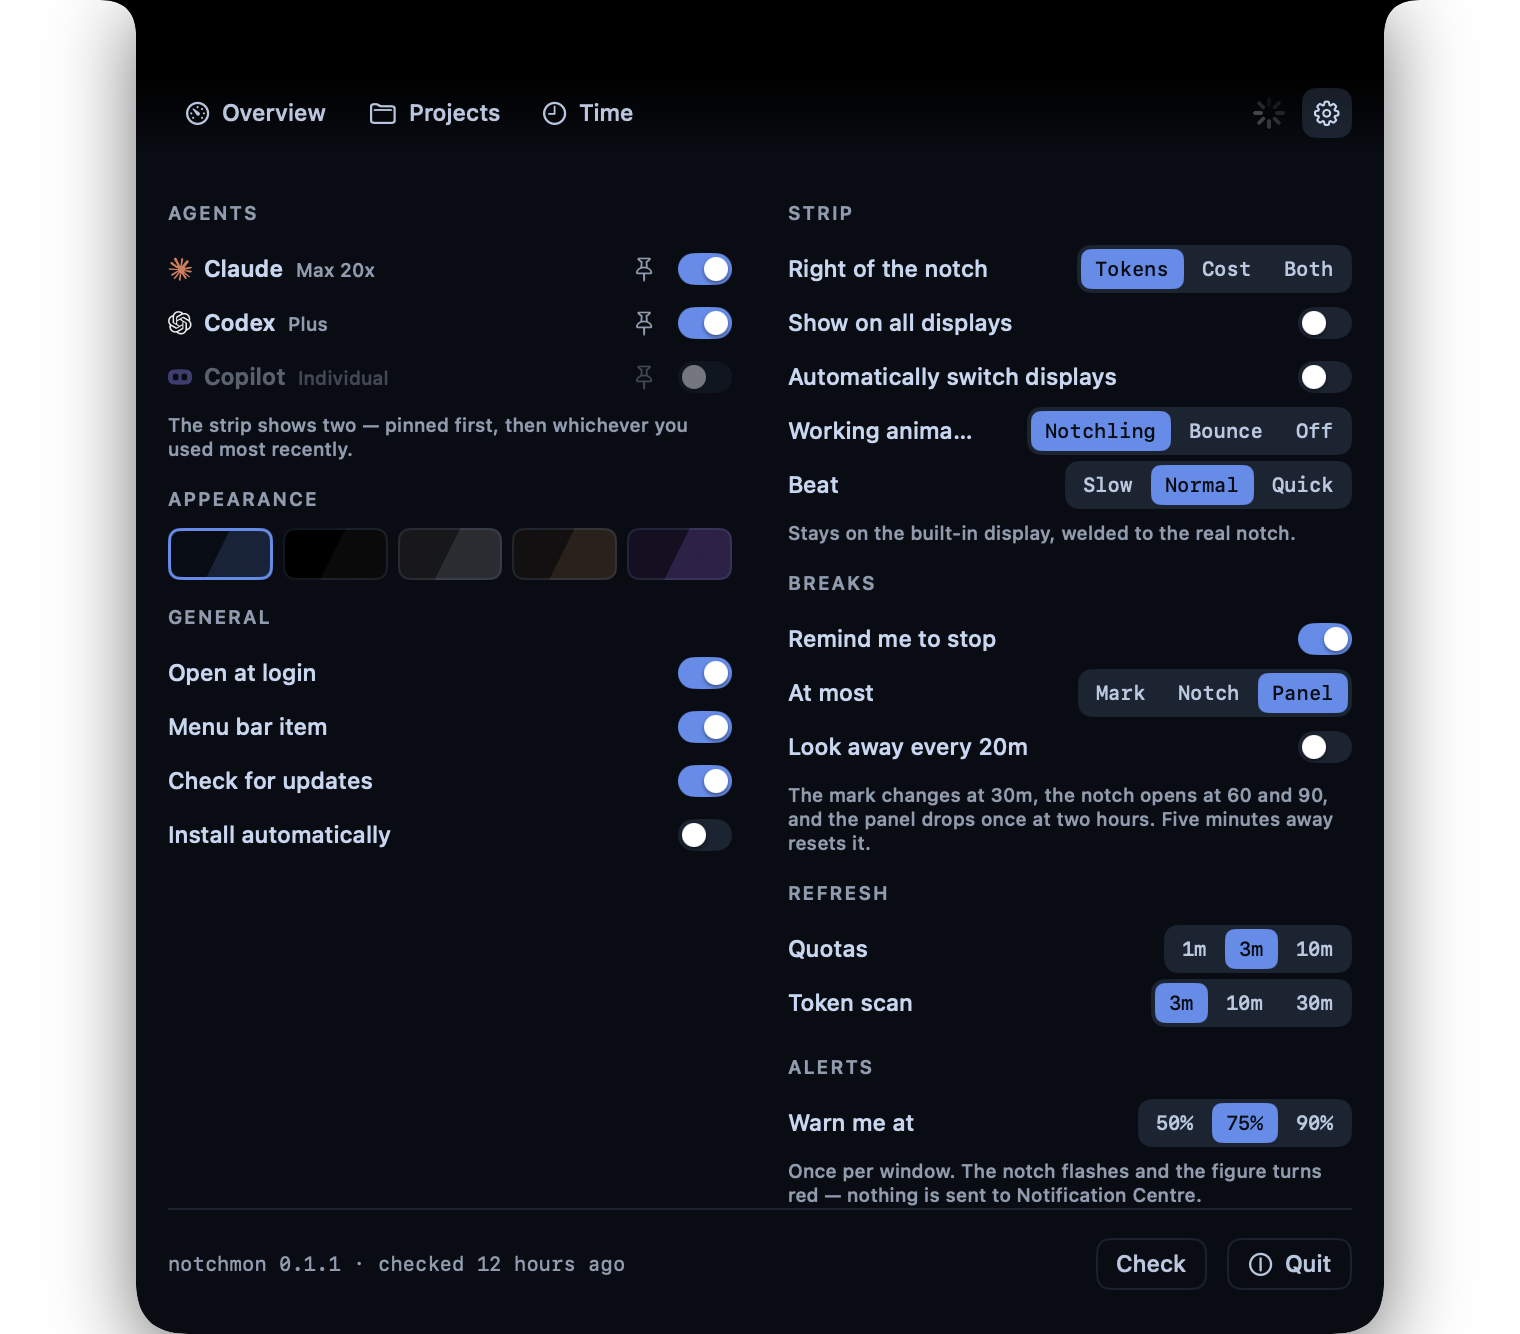
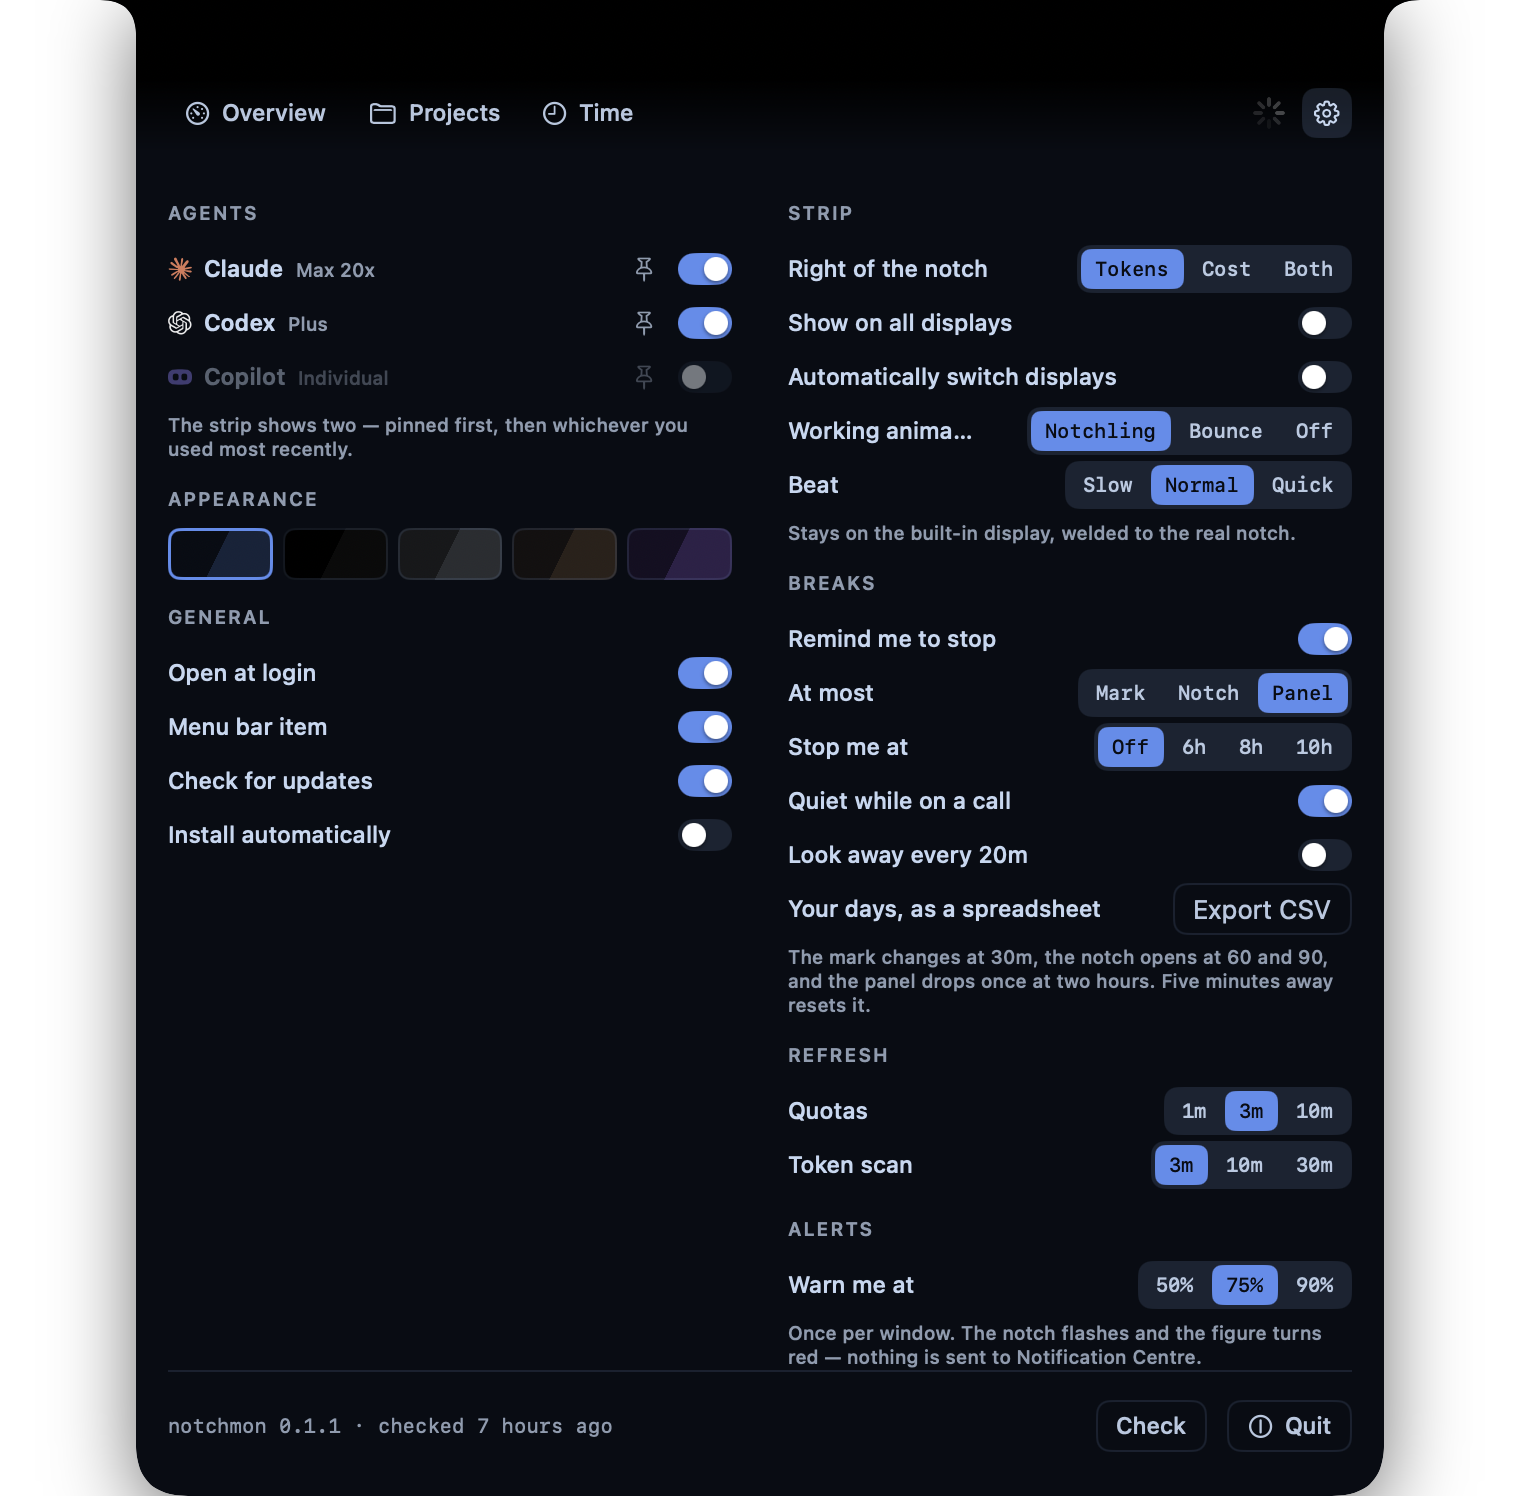
README: the seven things that landed
Hours by project and what they cost, the weekday grid, the CSVs, the
block summary, the day figure, and standing down during a call. The
Settings shot was retaken again — it has five rows in Breaks now.

diff --git a/README.md b/README.md
@@ -118,6 +118,14 @@ the app may interrupt you at all.
 - A bar per clock hour for today, a bar per day over 7 or 30, with the hours
   after 22:00 marked in their own colour and a hover card on every bar.
 - Longest unbroken stretch, how many separate sits, first at the desk, last seen.
+- **Hours by project**, joined to what those hours spent: the scan knows the
+  money and the presence clock knows who was there, so the page can say what an
+  hour at the desk cost. It needs no new permission — every client puts the
+  workspace in or beside the session file the app already watches.
+- A weekday-by-hour grid over 7 or 30 days, built from buckets the history
+  already keeps, so it cannot drift out of step with the charts above it.
+- Two CSVs — a row per day with the twenty-four buckets, and a long file of
+  project hours that names the unattributed remainder rather than dropping it.
 
 **Breaks**
 - Thirty minutes changes the mark and opens nothing. Sixty and ninety open the
@@ -130,6 +138,15 @@ the app may interrupt you at all.
   off; no motion at all is not seen, because peripheral vision reports change
   rather than state.
 - Nothing waits to be dismissed. Every reminder takes itself away.
+- A block that ended is summarised **when you come back**, not when you leave:
+  writing it at the end would be writing it to an empty chair. Half an hour
+  away, twenty-five minutes of work, or it says nothing.
+- A figure for the day, if you set one. Off by default — a number the app chose
+  would be the app having an opinion about your working day.
+- It stands down while the microphone is in use, which is the only "bad moment"
+  macOS will report without being asked for a permission. A rung reached during
+  a call is not spent on it: it stays due and whatever is current fires when the
+  call ends, so the reminder never arrives saying the wrong number.
 - **One switch in Settings turns all of it off, and it is on by default.** It
   changes nothing else: the Time tab still counts and the strip still says how
   long you have been sitting. Measuring and interrupting are two different
